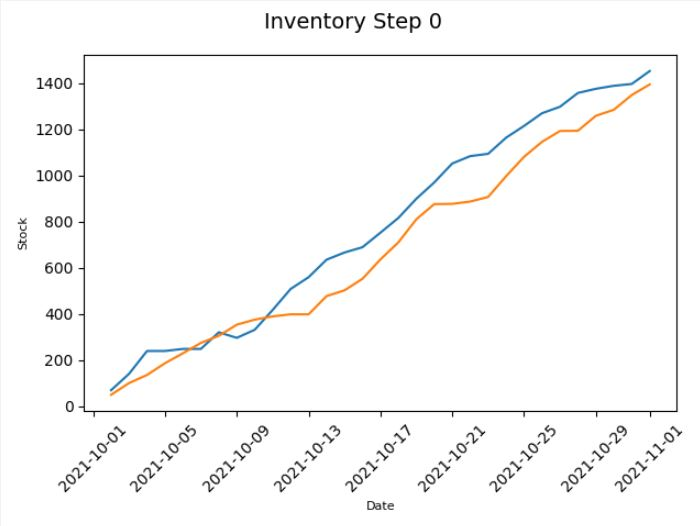
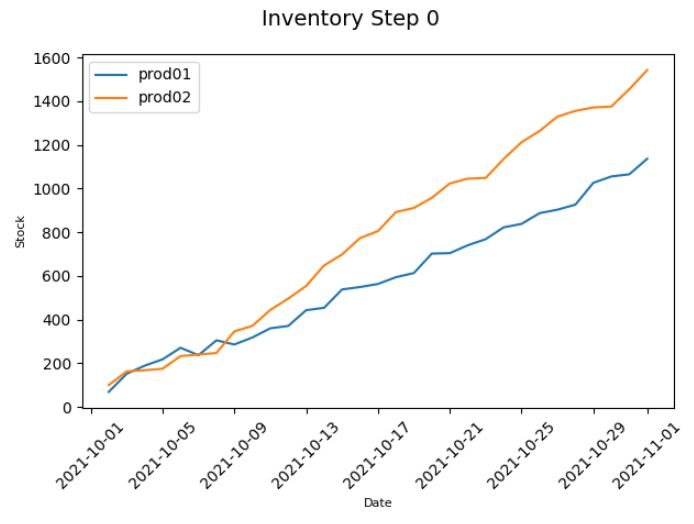
added docs

diff --git a/src/gym-proc/gym_proc/envs/proc_env.py b/src/gym-proc/gym_proc/envs/proc_env.py
@@ -9,23 +9,59 @@ from gym.vector.utils import spaces
 import matplotlib.pyplot as plt
 
 class ProcurementEnv(gym.Env):
+    """
+    Procurement Environment for Gym
+    """
     metadata = {
         'render.modes': ['human']
     }
+    # Dictonary of current stock(int) per product id (string)
     stock = {}
+    # see Orders
     orders = []
+    # see Products
     products = []
+    # see Procurements
     procurements = []
+    # track stock by adding the state per day
     stock_history=[]
+    # start date of the environment
     start_date = None
+    # iterative date of the environment
     current_date = None
+    # start date of the environment
     end_date = None
+    # tbd
     stock_policy = {}
+    # see init
     debug = False
+    # stock below threshold kills the environment run
     kill = False
+    # allowing external reward function, see init
     reward_function=None
 
     def __init__(self, orders, products, start_date, end_date, stock_policy=None, debug=True, reward_function=None):
+        """
+       init the env by using env = gym.make("Procurement-v0" ....)
+
+        :param orders: Array of orders
+        :type orders: []Order (see class Order)
+        :param products: Array of products define the initial stock
+        :type products: []Product (see class Product)
+        :param start_date: Start date of the env
+        :type datetime
+        :param end_date: End date of the env
+        :type datetime
+        :param stock_policy: Custom stock policy
+        :type dict
+        :param debug: enable console prints
+        :type bool
+        :param reward_function: custom reward function - see example_reward function
+        :type function
+
+       :return: env
+       """
+
         if reward_function:
             self.reward_function = reward_function
         else: self.reward_function = self.example_reward
@@ -55,6 +91,10 @@ class ProcurementEnv(gym.Env):
             print("init finished")
 
     def get_max_product_range(self):
+        """
+        Returns max of product range
+        :return amount int
+        """
         out = 0
         for p in self.products:
             if p.get_max_order_range() > out:
@@ -62,6 +102,10 @@ class ProcurementEnv(gym.Env):
         return out
 
     def get_max_product_order_amount(self):
+        """
+        Returns max order amount (tbd remove?)
+        :return amount int
+        """
         out = 0
         for p in self.products:
             if p.max_order_amount() > out:
@@ -72,8 +116,8 @@ class ProcurementEnv(gym.Env):
         self.np_random, seed = seeding.np_random(seed)
         return [seed]
 
-    ## action
-    def step(self, action):
+
+    def step(self, action): # pragma: no cover
         self.current_date, self.stock = self.state
 
         # Handle Orders (- Stock)
@@ -109,7 +153,7 @@ class ProcurementEnv(gym.Env):
                     if self.debug:
                         print("handle procurement", p)
                     self.stock[i] += items[i]
-
+        # use custom reward function
         reward = self.calculate_reward(self.reward_function(stock=self.stock, action=action, current_date=self.current_date,products=self.products, orders=self.orders, procurements=self.procurements))
         if self.debug:
             print("date", self.current_date)
@@ -122,15 +166,36 @@ class ProcurementEnv(gym.Env):
         # keep track of stock (use copy to avoid getting the same object)
         self.stock_history.append(copy.deepcopy(self.state))
         return self.state, reward, False, {}
+
     def example_reward(self,stock=None, action=None, current_date = None, products=None, orders=None, procurements=None):
+        """
+        example for custom reward function
+
+       :param stock: current stock
+       :type Dictonary of current stock(int) per product id (string)
+       :param action: see action space
+       :param current_date: current date of the env
+       :type datetime
+
+       :param products: current products
+       :type []Product
+       :param orders: current orders
+       :type []Order
+       :param procurements: current procurements
+       :type []Procurement
+
+      :return: reward as int
+      """
+
         out = 0
         for key in stock:
             out += stock[key]
         return out * -1
-    def calculate_reward(self, func):
+
+    def calculate_reward(self, func): # wrapper for custom reward functions
         return func
 
-    def reset(self):
+    def reset(self): # pragma: no cover
         self.kill = False
         self.current_date = self.start_date
         stock = {}
@@ -141,12 +206,12 @@ class ProcurementEnv(gym.Env):
         self.stock_history=[]
         return self.state
 
-    def done(self):
+    def done(self): # pragma: no cover
         if self.kill:
             return False
         return self.current_date < self.end_date
 
-    def plot(self, step=None):
+    def plot(self, step=None): # pragma: no cover
         fig = plt.figure()
         ax = plt.axes()
         x_days = []
@@ -160,17 +225,21 @@ class ProcurementEnv(gym.Env):
                 else:
                      product_stock[k]= [v]
         for p in self.products:
-            plt.plot(x_days, product_stock[p.get_id()])
+            plt.plot(x_days, product_stock[p.get_id()],label=p.get_id())
 
         ax.tick_params(axis='x', rotation=45)
         fig.suptitle('Inventory Step '+str(step), fontsize=14)
         plt.xlabel('Date', fontsize=8)
         plt.ylabel('Stock', fontsize=8)
+        plt.legend(loc="upper left")
         plt.tight_layout()
 
         plt.show()
 
 class Product(object):
+    """
+      Simple Product for the env
+    """
     _id = None
     _max_order_range = [0]
     _max_order_amount = 0
@@ -206,6 +275,9 @@ class Product(object):
 
 
 class Transaction(object):
+    """
+  Mother Class for Procurement and Order
+    """
     _id = None
     _created_date = None
     _items = {}
@@ -226,6 +298,9 @@ class Transaction(object):
 
 
 class Procurement(Transaction):
+    """
+    Procurement
+    """
     _supplier_id = None
     _delivery_date = None
 
@@ -251,6 +326,9 @@ class Procurement(Transaction):
 
 
 class Order(Transaction):
+    """
+    Order
+    """
     _customer_id = None
     _delivery_date = None
 

diff --git a/example.py b/example.py
@@ -2,10 +2,6 @@ import time as t
 import datetime
 import os, sys
 import random
-from datetime import time, date
-
-import numpy as np
-import pandas as pd
 
 file_path = 'src/gym-proc/'
 sys.path.append(os.path.dirname(file_path))
@@ -35,6 +31,7 @@ class RandomAgent(object):
 
     def act(self, observation, reward, done):
         return self.action_space.sample()
+# example for custom reward function
 def custom_reward_function(stock=None, action=None, current_date = None, products=None, orders=None, procurements=None):
     out = 0
     for key in stock:
@@ -65,7 +62,7 @@ def run_rl():
     env.scenario_name = agent.name
     observation = env.reset()
     episodes = 1
-
+    # Run the environment
     for j in range(episodes):
         while env.done():
             # Action/Feedback
@@ -79,7 +76,5 @@ def run_rl():
 if __name__ == "__main__":
     print("Start Procurement RL")
     startTime = t.time()
-
     run_rl()
-
     print('process done in {0} seconds'.format(t.time() - startTime))

diff --git a/README.md b/README.md
@@ -1,18 +1,21 @@
-# Procurement RL Environment
-Prototype of a procurement like gym environment
-
+# Procurement Reinforcement Learning Environment
+A prototype environment based on [Gym](https://gym.openai.com/).
+It describes the simplified procurement process and includes Orders based on custom Products.
 ## Status
 
-Work in progress
+Inital stage - work in progress - PR/Forks welcome!
 
 ## Run
-Clone/Download Repository and execute example.py
+Clone/Download Repository and execute `example.py`
 
 ## Requirements
 - Python 3.6+
 - Gym 0.18.0
 - Matplotlib 3.4+
 
+## Example Plot
+Example: Stock with random agent over one episode:
+![plot](rl-plot.jpg)
 ## License
 **[MIT license](http://opensource.org/licenses/mit-license.php)**
 
